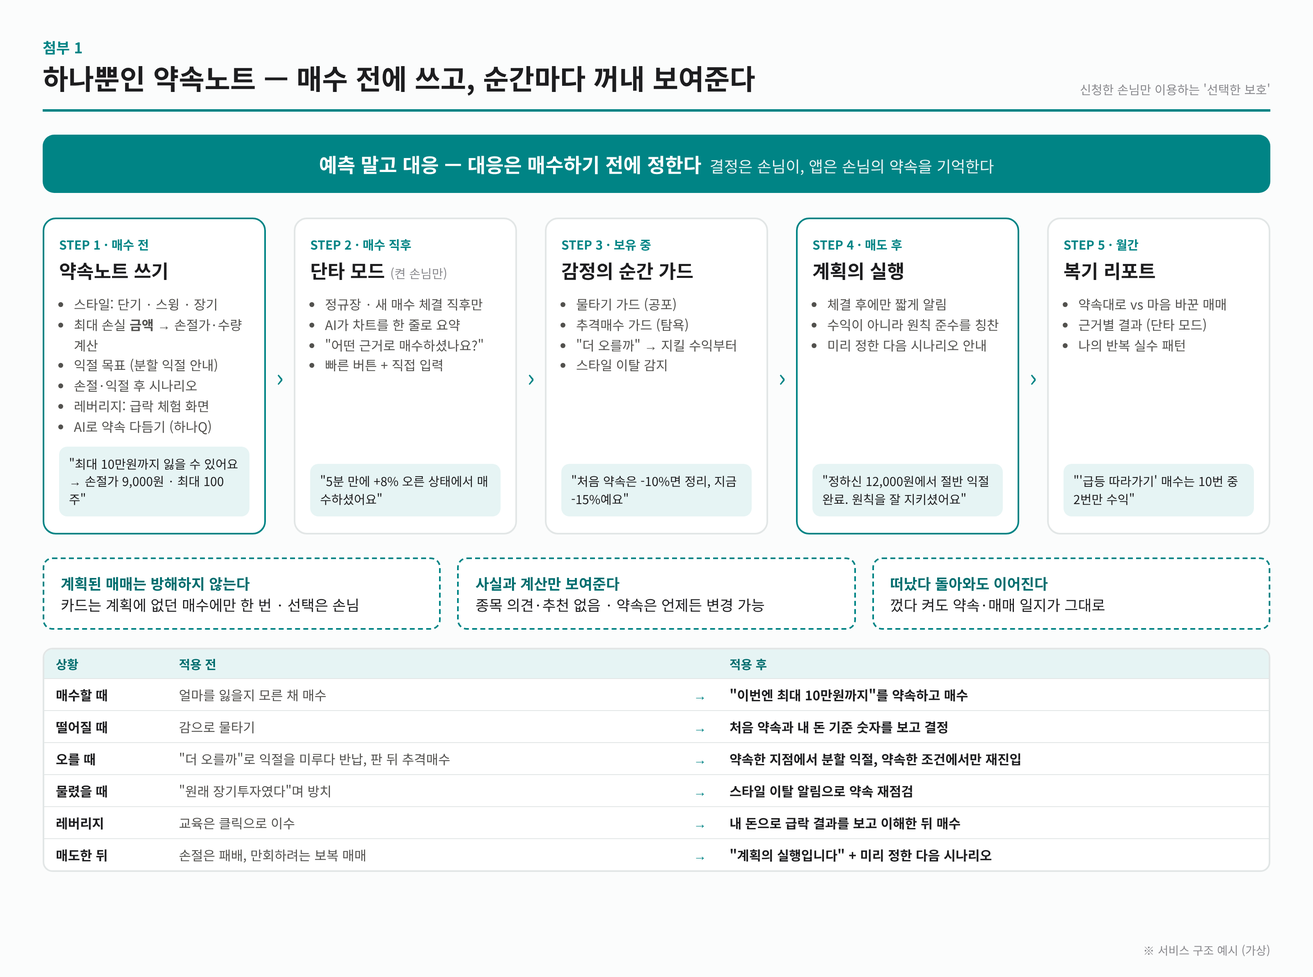
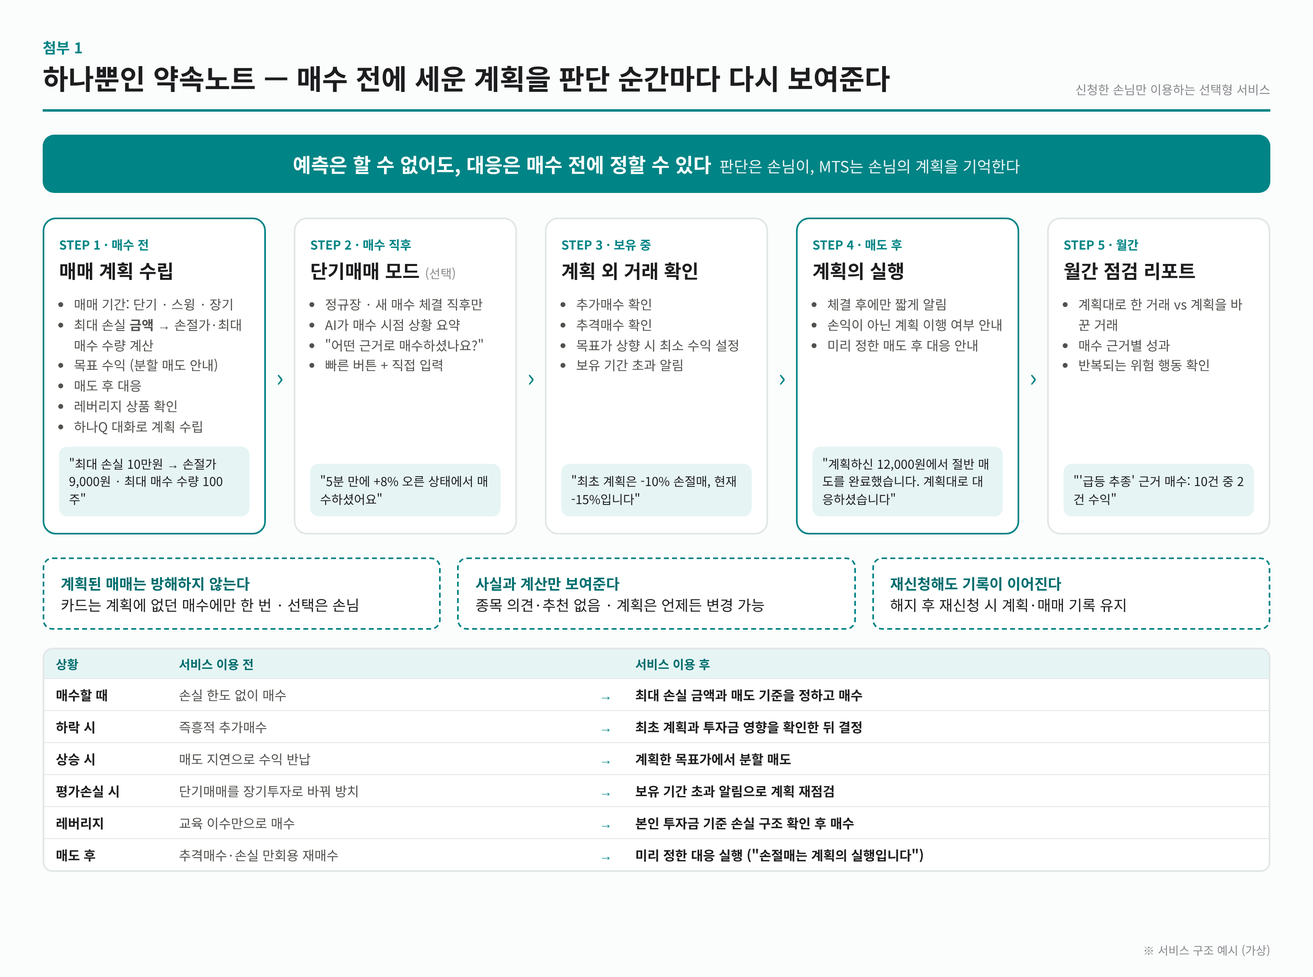
Align attachment image wording with final terminology
Claude-Session: https://claude.ai/code/session_01TKkDqm14RjDDXPetjfDB7T

diff --git a/contest/report/첨부이미지.html b/contest/report/첨부이미지.html
@@ -81,72 +81,72 @@ svg text{font-family:"NotoKRL","NotoKR",sans-serif;}
 
 <!-- ================= 1. 서비스 흐름도 ================= -->
 <div class="sheet" id="img1" style="height:1190px">
-  <div class="head"><div><div class="no">첨부 1</div><h1>하나뿐인 약속노트 — 매수 전에 쓰고, 순간마다 꺼내 보여준다</h1></div><div class="note">신청한 손님만 이용하는 '선택한 보호'</div></div>
-  <div class="banner">예측 말고 대응 — 대응은 매수하기 전에 정한다<span>결정은 손님이, 앱은 손님의 약속을 기억한다</span></div>
+  <div class="head"><div><div class="no">첨부 1</div><h1>하나뿐인 약속노트 — 매수 전에 세운 계획을 판단 순간마다 다시 보여준다</h1></div><div class="note">신청한 손님만 이용하는 선택형 서비스</div></div>
+  <div class="banner">예측은 할 수 없어도, 대응은 매수 전에 정할 수 있다<span>판단은 손님이, MTS는 손님의 계획을 기억한다</span></div>
   <div class="flow">
-    <div class="stage hot"><div class="when">STEP 1 · 매수 전</div><h3>약속노트 쓰기</h3>
-      <ul><li>스타일: 단기 · 스윙 · 장기</li><li>최대 손실 <b>금액</b> → 손절가·수량 계산</li><li>익절 목표 (분할 익절 안내)</li><li>손절·익절 후 시나리오</li><li>레버리지: 급락 체험 화면</li><li>AI로 약속 다듬기 (하나Q)</li></ul>
-      <div class="msg">"최대 10만원까지 잃을 수 있어요 → 손절가 9,000원 · 최대 100주"</div></div>
+    <div class="stage hot"><div class="when">STEP 1 · 매수 전</div><h3>매매 계획 수립</h3>
+      <ul><li>매매 기간: 단기 · 스윙 · 장기</li><li>최대 손실 <b>금액</b> → 손절가·최대 매수 수량 계산</li><li>목표 수익 (분할 매도 안내)</li><li>매도 후 대응</li><li>레버리지 상품 확인</li><li>하나Q 대화로 계획 수립</li></ul>
+      <div class="msg">"최대 손실 10만원 → 손절가 9,000원 · 최대 매수 수량 100주"</div></div>
     <div class="arrow">›</div>
-    <div class="stage"><div class="when">STEP 2 · 매수 직후</div><h3>단타 모드 <span style="font-size:15px;color:var(--muted);font-weight:400">(켠 손님만)</span></h3>
-      <ul><li>정규장 · 새 매수 체결 직후만</li><li>AI가 차트를 한 줄로 요약</li><li>"어떤 근거로 매수하셨나요?"</li><li>빠른 버튼 + 직접 입력</li></ul>
+    <div class="stage"><div class="when">STEP 2 · 매수 직후</div><h3>단기매매 모드 <span style="font-size:15px;color:var(--muted);font-weight:400">(선택)</span></h3>
+      <ul><li>정규장 · 새 매수 체결 직후만</li><li>AI가 매수 시점 상황 요약</li><li>"어떤 근거로 매수하셨나요?"</li><li>빠른 버튼 + 직접 입력</li></ul>
       <div class="msg">"5분 만에 +8% 오른 상태에서 매수하셨어요"</div></div>
     <div class="arrow">›</div>
-    <div class="stage"><div class="when">STEP 3 · 보유 중</div><h3>감정의 순간 가드</h3>
-      <ul><li>물타기 가드 (공포)</li><li>추격매수 가드 (탐욕)</li><li>"더 오를까" → 지킬 수익부터</li><li>스타일 이탈 감지</li></ul>
-      <div class="msg">"처음 약속은 -10%면 정리, 지금 -15%예요"</div></div>
+    <div class="stage"><div class="when">STEP 3 · 보유 중</div><h3>계획 외 거래 확인</h3>
+      <ul><li>추가매수 확인</li><li>추격매수 확인</li><li>목표가 상향 시 최소 수익 설정</li><li>보유 기간 초과 알림</li></ul>
+      <div class="msg">"최초 계획은 -10% 손절매, 현재 -15%입니다"</div></div>
     <div class="arrow">›</div>
     <div class="stage hot"><div class="when">STEP 4 · 매도 후</div><h3>계획의 실행</h3>
-      <ul><li>체결 후에만 짧게 알림</li><li>수익이 아니라 원칙 준수를 칭찬</li><li>미리 정한 다음 시나리오 안내</li></ul>
-      <div class="msg">"정하신 12,000원에서 절반 익절 완료. 원칙을 잘 지키셨어요"</div></div>
+      <ul><li>체결 후에만 짧게 알림</li><li>손익이 아닌 계획 이행 여부 안내</li><li>미리 정한 매도 후 대응 안내</li></ul>
+      <div class="msg">"계획하신 12,000원에서 절반 매도를 완료했습니다. 계획대로 대응하셨습니다"</div></div>
     <div class="arrow">›</div>
-    <div class="stage"><div class="when">STEP 5 · 월간</div><h3>복기 리포트</h3>
-      <ul><li>약속대로 vs 마음 바꾼 매매</li><li>근거별 결과 (단타 모드)</li><li>나의 반복 실수 패턴</li></ul>
-      <div class="msg">"'급등 따라가기' 매수는 10번 중 2번만 수익"</div></div>
+    <div class="stage"><div class="when">STEP 5 · 월간</div><h3>월간 점검 리포트</h3>
+      <ul><li>계획대로 한 거래 vs 계획을 바꾼 거래</li><li>매수 근거별 성과</li><li>반복되는 위험 행동 확인</li></ul>
+      <div class="msg">"'급등 추종' 근거 매수: 10건 중 2건 수익"</div></div>
   </div>
   <div class="rules">
     <div class="rule"><b>계획된 매매는 방해하지 않는다</b><br>카드는 계획에 없던 매수에만 한 번 · 선택은 손님</div>
-    <div class="rule"><b>사실과 계산만 보여준다</b><br>종목 의견·추천 없음 · 약속은 언제든 변경 가능</div>
-    <div class="rule"><b>떠났다 돌아와도 이어진다</b><br>껐다 켜도 약속·매매 일지가 그대로</div>
+    <div class="rule"><b>사실과 계산만 보여준다</b><br>종목 의견·추천 없음 · 계획은 언제든 변경 가능</div>
+    <div class="rule"><b>재신청해도 기록이 이어진다</b><br>해지 후 재신청 시 계획·매매 기록 유지</div>
   </div>
   <table class="ba">
-    <tr><th>상황</th><th>적용 전</th><th></th><th>적용 후</th></tr>
-    <tr><td class="k">매수할 때</td><td class="b">얼마를 잃을지 모른 채 매수</td><td class="ar">→</td><td class="a">"이번엔 최대 10만원까지"를 약속하고 매수</td></tr>
-    <tr><td class="k">떨어질 때</td><td class="b">감으로 물타기</td><td class="ar">→</td><td class="a">처음 약속과 내 돈 기준 숫자를 보고 결정</td></tr>
-    <tr><td class="k">오를 때</td><td class="b">"더 오를까"로 익절을 미루다 반납, 판 뒤 추격매수</td><td class="ar">→</td><td class="a">약속한 지점에서 분할 익절, 약속한 조건에서만 재진입</td></tr>
-    <tr><td class="k">물렸을 때</td><td class="b">"원래 장기투자였다"며 방치</td><td class="ar">→</td><td class="a">스타일 이탈 알림으로 약속 재점검</td></tr>
-    <tr><td class="k">레버리지</td><td class="b">교육은 클릭으로 이수</td><td class="ar">→</td><td class="a">내 돈으로 급락 결과를 보고 이해한 뒤 매수</td></tr>
-    <tr><td class="k">매도한 뒤</td><td class="b">손절은 패배, 만회하려는 보복 매매</td><td class="ar">→</td><td class="a">"계획의 실행입니다" + 미리 정한 다음 시나리오</td></tr>
+    <tr><th>상황</th><th>서비스 이용 전</th><th></th><th>서비스 이용 후</th></tr>
+    <tr><td class="k">매수할 때</td><td class="b">손실 한도 없이 매수</td><td class="ar">→</td><td class="a">최대 손실 금액과 매도 기준을 정하고 매수</td></tr>
+    <tr><td class="k">하락 시</td><td class="b">즉흥적 추가매수</td><td class="ar">→</td><td class="a">최초 계획과 투자금 영향을 확인한 뒤 결정</td></tr>
+    <tr><td class="k">상승 시</td><td class="b">매도 지연으로 수익 반납</td><td class="ar">→</td><td class="a">계획한 목표가에서 분할 매도</td></tr>
+    <tr><td class="k">평가손실 시</td><td class="b">단기매매를 장기투자로 바꿔 방치</td><td class="ar">→</td><td class="a">보유 기간 초과 알림으로 계획 재점검</td></tr>
+    <tr><td class="k">레버리지</td><td class="b">교육 이수만으로 매수</td><td class="ar">→</td><td class="a">본인 투자금 기준 손실 구조 확인 후 매수</td></tr>
+    <tr><td class="k">매도 후</td><td class="b">추격매수·손실 만회용 재매수</td><td class="ar">→</td><td class="a">미리 정한 대응 실행 ("손절매는 계획의 실행입니다")</td></tr>
   </table>
   <div class="virtual">※ 서비스 구조 예시 (가상)</div>
 </div>
 
 <!-- ================= 2. 매수 플랜 + 레버리지 ================= -->
 <div class="sheet" id="img2">
-  <div class="head"><div><div class="no">첨부 2</div><h1>매수 전 화면 — 약속노트 쓰기 · 레버리지 급락 체험</h1></div><div class="note">예시 숫자: 1만원 × 100주 / 레버리지 500만원 투자</div></div>
+  <div class="head"><div><div class="no">첨부 2</div><h1>매수 전 화면 — 매매 계획 수립 · 레버리지 상품 확인</h1></div><div class="note">예시 숫자: 1만원 × 100주 / 레버리지 500만원 투자</div></div>
   <div class="phones">
     <div class="capw"><div class="phone"><div class="screen">
-      <div class="bar"><div class="t">하나뿐인 약속노트 · 매수 전 30초</div><div class="h">이번 매매의 약속</div></div>
+      <div class="bar"><div class="t">하나뿐인 약속노트 · 매수 전 30초</div><div class="h">이번 매매 계획</div></div>
       <div class="body">
-        <div><div class="lbl">① 이번 매매는?</div><div class="chips"><span class="chip on">단기</span><span class="chip">스윙</span><span class="chip">장기</span><span class="chip">잘 모르겠어요</span></div>
-          <div class="calc" style="margin-top:4px">단기: 며칠 안에 정리, 빠른 손절이 핵심</div></div>
-        <div class="field"><div class="lbl">② 이 포지션에서 최대 얼마까지 잃을 수 있나요?</div><div class="v">100,000원</div><div class="calc">→ 손절가 9,000원 · 최대 100주</div></div>
-        <div class="field"><div class="lbl">③ 목표 수익</div><div class="v">+200,000원</div><div class="calc">→ 목표가 12,000원 · 절반 익절 후 나머지는 11,000원 이익보존</div></div>
-        <div><div class="lbl">💡 분할 익절이 왜 좋아요?</div>
-          <table class="mini"><tr><th>그 뒤 주가</th><th>전량</th><th>버팀</th><th class="me">분할</th></tr>
+        <div><div class="lbl">① 매매 기간</div><div class="chips"><span class="chip on">단기</span><span class="chip">스윙</span><span class="chip">장기</span><span class="chip">잘 모르겠어요</span></div>
+          <div class="calc" style="margin-top:4px">단기: 수일 내 매도, 손절 기준 준수가 핵심</div></div>
+        <div class="field"><div class="lbl">② 이 종목의 최대 손실 금액</div><div class="v">100,000원</div><div class="calc">→ 손절가 9,000원 · 최대 매수 수량 100주</div></div>
+        <div class="field"><div class="lbl">③ 목표 수익</div><div class="v">+200,000원</div><div class="calc">→ 목표가 12,000원 · 절반 매도 후 잔량은 11,000원 이익보존</div></div>
+        <div><div class="lbl">💡 분할 매도 비교</div>
+          <table class="mini"><tr><th>그 뒤 주가</th><th>일괄</th><th>보유</th><th class="me">분할</th></tr>
           <tr><td>14,000원 상승</td><td>+20만</td><td>+40만</td><td class="me">+30만</td></tr>
           <tr><td>10,000원 복귀</td><td>+20만</td><td>0</td><td class="me">+15만</td></tr></table></div>
-        <div><div class="lbl">④ 매도 후 시나리오</div><div class="chips"><span class="chip on">손절 후: 9,500원 회복 시 알림</span><span class="chip on">익절 후: 11,000원까지 내려오면 재진입 알림</span></div></div>
-        <div style="font-size:12.5px;color:var(--teal-d);text-align:center">🎙 하나Q에게 말로 약속 쓰기</div>
-        <div class="btn">약속 확인 · 감시주문(스탑로스) 연결</div>
-      </div></div></div><div class="cap">매수 전에 쓰는 약속 3가지</div></div>
+        <div><div class="lbl">④ 매도 후 대응</div><div class="chips"><span class="chip on">손절매 후: 9,500원 회복 시 알림</span><span class="chip on">이익실현 후: 11,000원 하락 시 재매수 알림</span></div></div>
+        <div style="font-size:12.5px;color:var(--teal-d);text-align:center">🎙 하나Q 대화로 계획 세우기</div>
+        <div class="btn">계획 확인 · 감시주문(스탑로스) 연동</div>
+      </div></div></div><div class="cap">매수 전에 세우는 매매 계획</div></div>
 
     <div class="capw"><div class="phone" style="width:560px"><div class="screen">
-      <div class="bar"><div class="t">레버리지 모드 · 매수 전 확인</div><div class="h">급락이 오면 내 500만원은?</div></div>
+      <div class="bar"><div class="t">레버리지 모드 · 매수 전 확인</div><div class="h">급락 시 투자금 500만원의 변화</div></div>
       <div class="body">
         <div style="font-size:13px;color:var(--teal-d);font-weight:700">레버리지 상품은 일반적으로 단기 보유를 전제로 설계됩니다 (투자설명서)</div>
         <div style="font-size:13px;color:var(--ink2)">첫날 -10% 급락 후 +5%, -5%를 반복(횡보)했을 때 · 내 투자금 기준 계산</div>
-        <svg width="510" height="300" viewBox="0 0 510 300" role="img" aria-label="본주, 2배, 3배 레버리지의 평가금액 변화">
+        <svg width="510" height="300" viewBox="0 0 510 300" role="img" aria-label="1배, 2배, 3배 레버리지의 평가금액 변화">
           <!-- axes: x 0..5 days -> 50..400 ; y 300..520만원 -> 260..20 -->
           <g stroke="#e2e6e6" stroke-width="1">
             <line x1="50" y1="20" x2="400" y2="20"/><line x1="50" y1="80" x2="400" y2="80"/><line x1="50" y1="140" x2="400" y2="140"/><line x1="50" y1="200" x2="400" y2="200"/><line x1="50" y1="260" x2="400" y2="260"/>
@@ -166,17 +166,17 @@ svg text{font-family:"NotoKRL","NotoKR",sans-serif;}
           <polyline fill="none" stroke="#c0262d" stroke-width="3" stroke-linejoin="round" points="50,40 120,190 190,137.5 260,197.9 330,146.6 400,205.6"/>
           <g><circle cx="400" cy="92.2" r="4.5" fill="#2a78d6" stroke="#fff" stroke-width="2"/><circle cx="400" cy="148" r="4.5" fill="#eb6834" stroke="#fff" stroke-width="2"/><circle cx="400" cy="205.6" r="5" fill="#c0262d" stroke="#fff" stroke-width="2"/></g>
           <g font-size="12.5" fill="#1d1d1f">
-            <text x="410" y="96"><tspan font-weight="700">본주</tspan> 448만원</text>
+            <text x="410" y="96"><tspan font-weight="700">1배</tspan> 448만원</text>
             <text x="410" y="152"><tspan font-weight="700">2배</tspan> 392만원</text>
             <text x="410" y="210"><tspan font-weight="700">3배</tspan> 334만원</text>
           </g>
         </svg>
         <div style="display:flex;gap:8px">
-          <div class="card warn" style="flex:1"><div class="ic">⚠ 원금을 되찾으려면</div><div style="font-size:13px">본주 <b>+12%</b> · 2배 <b>+28%</b> · 3배 <b>+50%</b> 필요</div></div>
-          <div class="card warn" style="flex:1"><div class="ic">⚠ 제자리 횡보만 해도</div><div style="font-size:13px">+10%·-10% 반복 시<br>본주 495 · 2배 480 · <b>3배 455만원</b></div></div>
+          <div class="card warn" style="flex:1"><div class="ic">⚠ 원금을 되찾으려면</div><div style="font-size:13px">1배 <b>+12%</b> · 2배 <b>+28%</b> · 3배 <b>+50%</b> 필요</div></div>
+          <div class="card warn" style="flex:1"><div class="ic">⚠ 제자리 횡보만 해도</div><div style="font-size:13px">+10%·-10% 반복 시<br>1배 495 · 2배 480 · <b>3배 455만원</b></div></div>
         </div>
         <div style="font-size:12px;color:var(--muted)">과거 데이터 기반 계산 예시이며 미래 수익률을 예측하지 않습니다. 이해도 확인 3문항 후 매수할 수 있어요.</div>
-      </div></div></div><div class="cap">레버리지는 '내 돈'으로 먼저 체험한다</div></div>
+      </div></div></div><div class="cap">레버리지는 본인 투자금 기준으로 먼저 확인한다</div></div>
   </div>
   <div class="virtual">※ 화면 예시 (가상)</div>
 </div>
@@ -186,48 +186,48 @@ svg text{font-family:"NotoKRL","NotoKR",sans-serif;}
   <div class="head"><div><div class="no">첨부 3</div><h1>순간마다 꺼내 보여주는 약속노트</h1></div><div class="note">계획된 매매는 방해하지 않고, 계획에 없던 순간에만 한 번</div></div>
   <div class="phones" style="gap:26px">
     <div class="capw"><div class="phone"><div class="screen">
-      <div class="bar"><div class="t">보유 중 · 추가 매수 주문</div><div class="h">물타기 전에 확인해요</div></div>
+      <div class="bar"><div class="t">보유 중 · 추가매수 주문</div><div class="h">추가매수 전 확인</div></div>
       <div class="body">
-        <div class="card warn"><div class="ic">⚠ 약속에 없던 추가 매수예요</div><div class="big">처음 약속: 단기, -10%면 정리<br>지금: -15%</div></div>
-        <div class="row"><span>평균 단가</span><b>10,000 → 9,250원</b></div>
+        <div class="card warn"><div class="ic">⚠ 계획에 없던 추가매수입니다</div><div class="big">최초 계획: 단기, -10% 손절매<br>현재: -15%</div></div>
+        <div class="row"><span>평균단가</span><b>10,000 → 9,250원</b></div>
         <div class="row"><span>이 종목 비중</span><b>30% → 55%</b></div>
         <div class="row"><span>15% 더 내리면</span><b style="white-space:nowrap">-28만 → -41만원</b></div>
-        <div style="font-size:11.5px;color:var(--muted);text-align:right;margin-top:-6px">물타기 안 할 때 → 할 때</div>
+        <div style="font-size:11.5px;color:var(--muted);text-align:right;margin-top:-6px">추가매수 미실행 → 실행</div>
         <div class="lbl" style="margin-top:4px">원금 회복에 필요한 상승률</div>
         <div class="row"><span>-20% 손실</span><b>+25%</b></div>
         <div class="row"><span>-50% 손실</span><b>+100%</b></div>
-        <div class="btns"><div class="btn2">약속 바꾸고 진행</div><div class="btn2">그대로 진행</div><div class="btn2">취소</div><div class="btn2" style="border-color:var(--teal);color:var(--teal-d);font-weight:700">내일 다시 생각하기</div></div>
-      </div></div></div><div class="cap">물타기 가드 (공포)</div></div>
+        <div class="btns"><div class="btn2">계획 변경 후 진행</div><div class="btn2">그대로 진행</div><div class="btn2">취소</div><div class="btn2" style="border-color:var(--teal);color:var(--teal-d);font-weight:700">내일 다시 생각하기</div></div>
+      </div></div></div><div class="cap">추가매수 확인 (평가손실 시)</div></div>
 
     <div class="capw"><div class="phone"><div class="screen">
-      <div class="bar"><div class="t">익절 후 · 다시 매수 주문</div><div class="h">추격매수 전에 확인해요</div></div>
+      <div class="bar"><div class="t">매도 후 · 재매수 주문</div><div class="h">추격매수 전 확인</div></div>
       <div class="body">
-        <div class="card warn"><div class="ic">⚠ 판 가격보다 비싸게 다시 사요</div><div class="big">12,000원에 익절<br>지금 13,800원 (+15%)</div></div>
-        <div style="font-size:13.5px">처음 정한 익절 후 시나리오는<br><b>'11,000원까지 내려오면 재진입'</b>이었어요.</div>
-        <div class="card" style="background:var(--teal-l)"><div class="ic" style="color:var(--teal-d)">진행하려면 새 약속이 필요해요</div><div style="font-size:13px">스타일 · 최대 손실 금액을 다시 정하면<br>앞서 번 수익을 지키는 선이 보여요.</div></div>
-        <div class="btns"><div class="btn2" style="border-color:var(--teal);color:var(--teal-d);font-weight:700">새 약속 쓰기</div><div class="btn2">취소</div></div>
-      </div></div></div><div class="cap">추격매수 가드 (탐욕)</div></div>
+        <div class="card warn"><div class="ic">⚠ 매도가보다 높은 가격의 재매수입니다</div><div class="big">12,000원에 매도<br>현재 13,800원 (+15%)</div></div>
+        <div style="font-size:13.5px">최초 계획은<br><b>'11,000원 하락 시 재매수'</b>였습니다.</div>
+        <div class="card" style="background:var(--teal-l)"><div class="ic" style="color:var(--teal-d)">진행하려면 새 매매 계획이 필요합니다</div><div style="font-size:13px">매매 기간 · 최대 손실 금액을 다시 정하면<br>앞서 번 수익을 지키는 선이 보여요.</div></div>
+        <div class="btns"><div class="btn2" style="border-color:var(--teal);color:var(--teal-d);font-weight:700">새 계획 세우기</div><div class="btn2">취소</div></div>
+      </div></div></div><div class="cap">추격매수 확인 (매도 후)</div></div>
 
     <div class="capw"><div class="phone"><div class="screen">
-      <div class="bar"><div class="t">매수 체결 직후 · 단타 모드</div><div class="h">어떤 근거로 매수하셨나요?</div></div>
+      <div class="bar"><div class="t">매수 체결 직후 · 단기매매 모드</div><div class="h">어떤 근거로 매수하셨나요?</div></div>
       <div class="body">
         <div class="card" style="background:#f3f5f7"><div class="ic" style="color:var(--ink2)">AI 차트 요약</div><div style="font-size:14px"><b>5분 만에 +8%</b> 오른 상태,<br>거래량 <b>평소의 5배</b>에서 매수하셨어요.</div></div>
-        <div class="chips"><span class="chip">뉴스·공시</span><span class="chip">차트 돌파</span><span class="chip">남의 추천</span><span class="chip on">급등 따라가기</span><span class="chip">그냥 느낌</span></div>
+        <div class="chips"><span class="chip">뉴스·공시</span><span class="chip">차트 돌파</span><span class="chip">타인 추천</span><span class="chip on">급등 추종</span><span class="chip">직감</span></div>
         <div class="field" style="color:var(--muted);font-size:13px">직접 입력하시면 더 자세한 분석이 가능합니다.</div>
-        <div class="lbl" style="margin-top:6px">월간 복기 미리보기</div>
-        <div class="row"><span>급등 따라가기</span><b>10번 중 2번 수익</b></div>
-        <div class="row"><span>뉴스·공시</span><b>8번 중 5번 수익</b></div>
+        <div class="lbl" style="margin-top:6px">월간 점검 미리보기</div>
+        <div class="row"><span>급등 추종</span><b>10건 중 2건 수익</b></div>
+        <div class="row"><span>뉴스·공시</span><b>8건 중 5건 수익</b></div>
         <div style="font-size:12px;color:var(--muted)">정규장 시간, 새 매수 체결 직후에만 물어봐요.</div>
-      </div></div></div><div class="cap">단타 모드 근거 인터뷰</div></div>
+      </div></div></div><div class="cap">단기매매 모드 매수 근거 질문</div></div>
 
     <div class="capw"><div class="phone"><div class="screen">
       <div class="bar"><div class="t">매도 체결 후</div><div class="h">계획의 실행</div></div>
       <div class="body">
-        <div class="card good"><div class="ic">✓ 익절 완료</div><div class="big">정하신 12,000원(+20%)에서<br>절반 익절을 완료했어요.</div><div style="margin-top:4px;font-weight:700;color:var(--good)">원칙을 잘 지키셨어요.</div></div>
-        <div class="card good"><div class="ic">✓ 손절 완료</div><div style="font-size:14px">정하신 손절선 9,000원에서 정리했어요.<br><b>손절은 실패가 아니라 계획의 실행입니다.</b></div><div style="font-size:13px;margin-top:4px">다음 시나리오: 9,500원 회복 시 알림</div></div>
-        <div class="row"><span>이번 달 원칙 지킨 매매</span><b>7 / 9회</b></div>
-        <div style="font-size:12px;color:var(--muted)">칭찬은 수익이 아니라 원칙을 지켰는지에 드려요.</div>
-      </div></div></div><div class="cap">매도 후 원칙 준수 확인</div></div>
+        <div class="card good"><div class="ic">✓ 이익실현 완료</div><div class="big">계획하신 12,000원(+20%)에서<br>절반 매도를 완료했습니다.</div><div style="margin-top:4px;font-weight:700;color:var(--good)">계획대로 대응하셨습니다.</div></div>
+        <div class="card good"><div class="ic">✓ 손절매 완료</div><div style="font-size:14px">계획하신 손절가 9,000원에서 매도했습니다.<br><b>손절매는 실패가 아니라 계획의 실행입니다.</b></div><div style="font-size:13px;margin-top:4px">매도 후 대응: 9,500원 회복 시 알림</div></div>
+        <div class="row"><span>이번 달 계획대로 한 거래</span><b>7 / 9회</b></div>
+        <div style="font-size:12px;color:var(--muted)">안내는 손익이 아닌 계획 이행 여부를 기준으로 합니다.</div>
+      </div></div></div><div class="cap">매도 후 계획 이행 안내</div></div>
   </div>
   <div class="virtual">※ 화면 예시 (가상) · 숫자는 계산 예시</div>
 </div>
